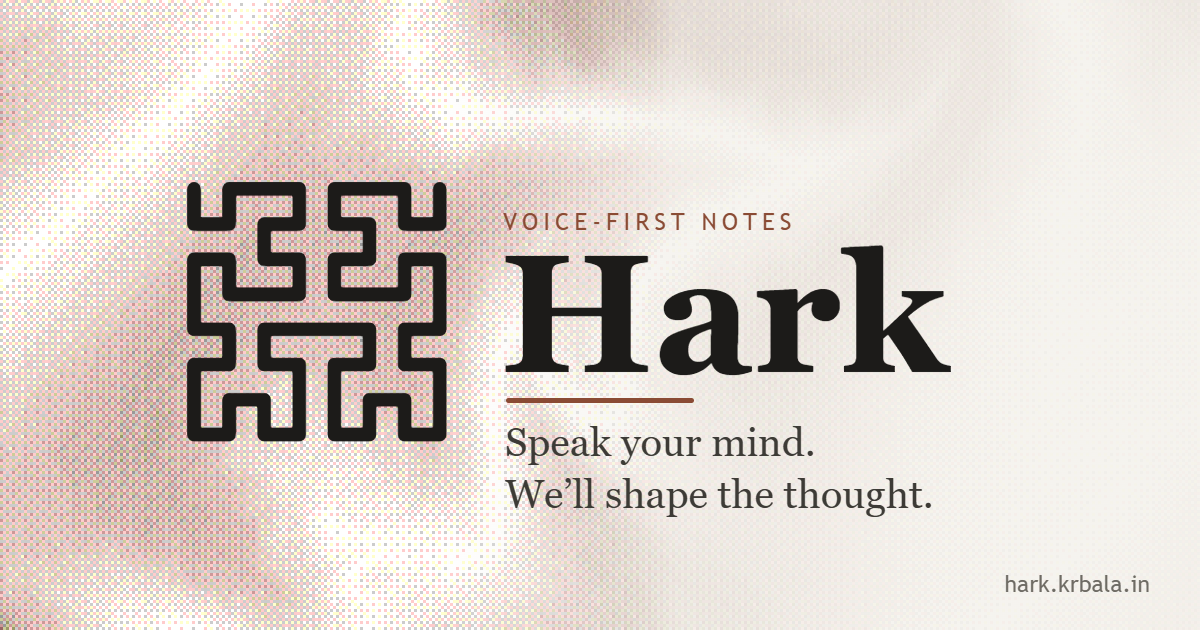
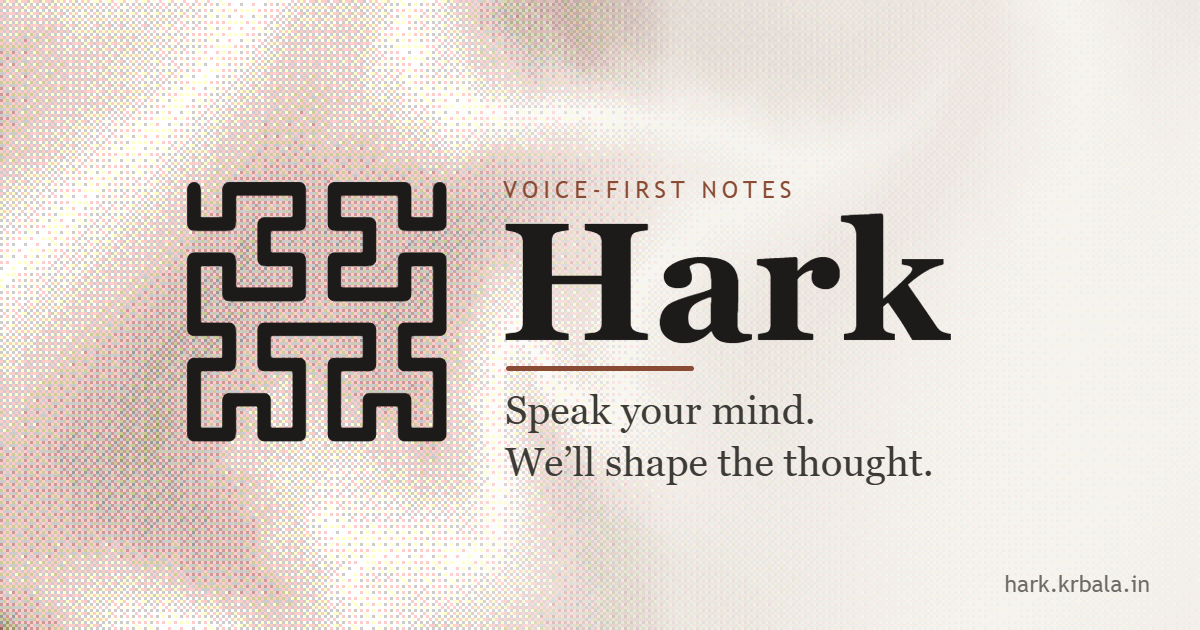
style(web): raise OG card text block to sit level with the maze glyph

Changed region(s): [[0.4008, 0.2714, 0.8017, 0.6032], [0.4008, 0.6333, 0.7708, 0.8143]]

diff --git a/web/og-render.html b/web/og-render.html
@@ -115,11 +115,11 @@ const OVERLAY =
 '</linearGradient></defs>' +
 '<rect x="430" y="0" width="770" height="630" fill="url(#scrim)"/>' +
 '<g transform="translate(155 150) scale(6.5)" fill="none" stroke="#1C1B19" stroke-width="2.1" stroke-linecap="round" stroke-linejoin="round"><path d="' + MAZE + '"/></g>' +
-'<text x="503" y="230" font-family="Trebuchet MS,Segoe UI,sans-serif" font-size="24" letter-spacing="5" fill="#8A4B34">VOICE-FIRST NOTES</text>' +
-'<text x="500" y="372" font-family="Georgia,Times New Roman,serif" font-size="168" font-weight="700" fill="#1C1B19">Hark</text>' +
-'<rect x="506" y="398" width="188" height="5" rx="2.5" fill="#8A4B34"/>' +
-'<text x="505" y="456" font-family="Georgia,Times New Roman,serif" font-size="40" fill="#3D3B36">Speak your mind.</text>' +
-'<text x="505" y="508" font-family="Georgia,Times New Roman,serif" font-size="40" fill="#3D3B36">We’ll shape the thought.</text>' +
+'<text x="503" y="198" font-family="Trebuchet MS,Segoe UI,sans-serif" font-size="24" letter-spacing="5" fill="#8A4B34">VOICE-FIRST NOTES</text>' +
+'<text x="500" y="340" font-family="Georgia,Times New Roman,serif" font-size="168" font-weight="700" fill="#1C1B19">Hark</text>' +
+'<rect x="506" y="366" width="188" height="5" rx="2.5" fill="#8A4B34"/>' +
+'<text x="505" y="424" font-family="Georgia,Times New Roman,serif" font-size="40" fill="#3D3B36">Speak your mind.</text>' +
+'<text x="505" y="476" font-family="Georgia,Times New Roman,serif" font-size="40" fill="#3D3B36">We’ll shape the thought.</text>' +
 '<text x="1150" y="592" text-anchor="end" font-family="Trebuchet MS,Segoe UI,sans-serif" font-size="23" fill="#6E6B64">hark.krbala.in</text>' +
 '</svg>';
 
